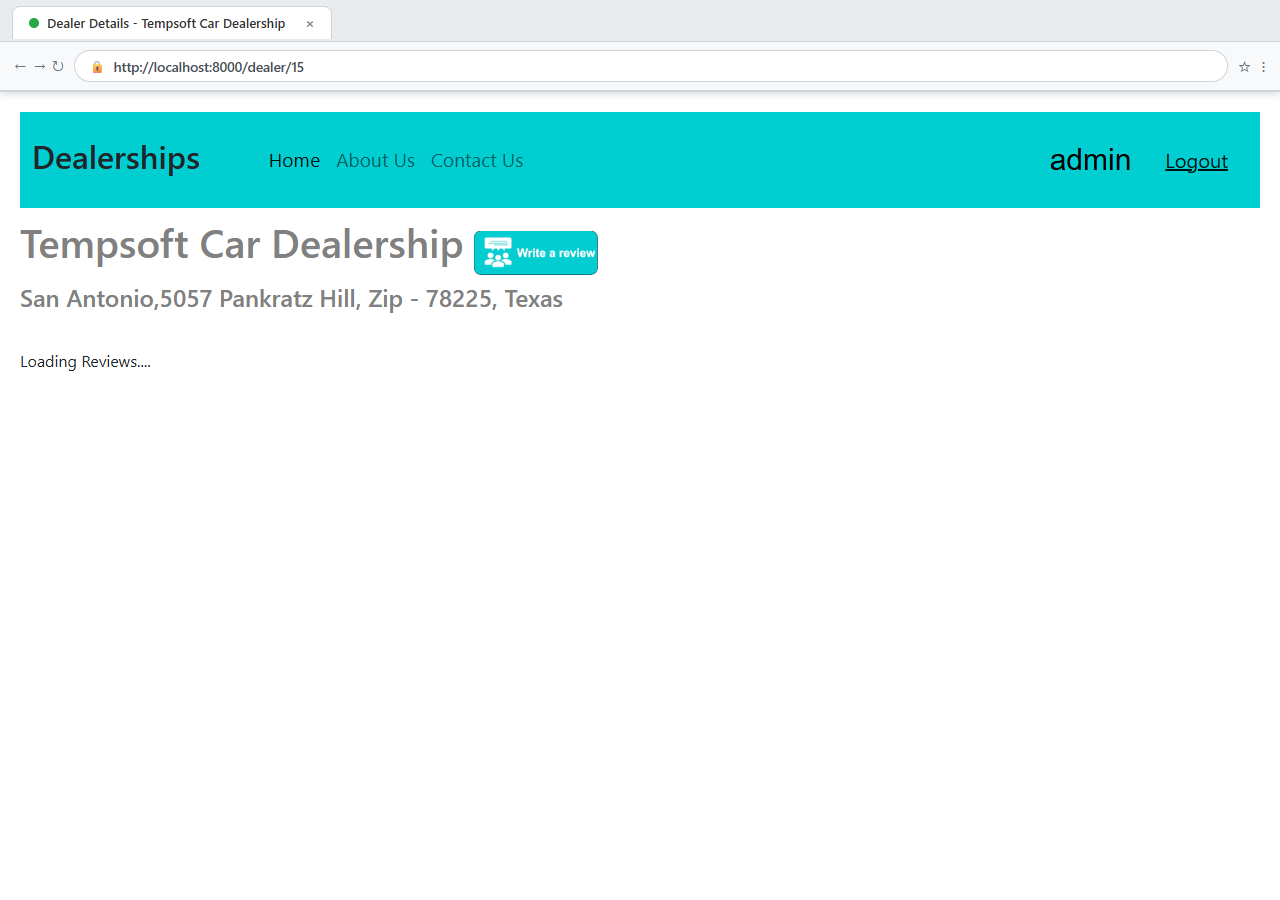
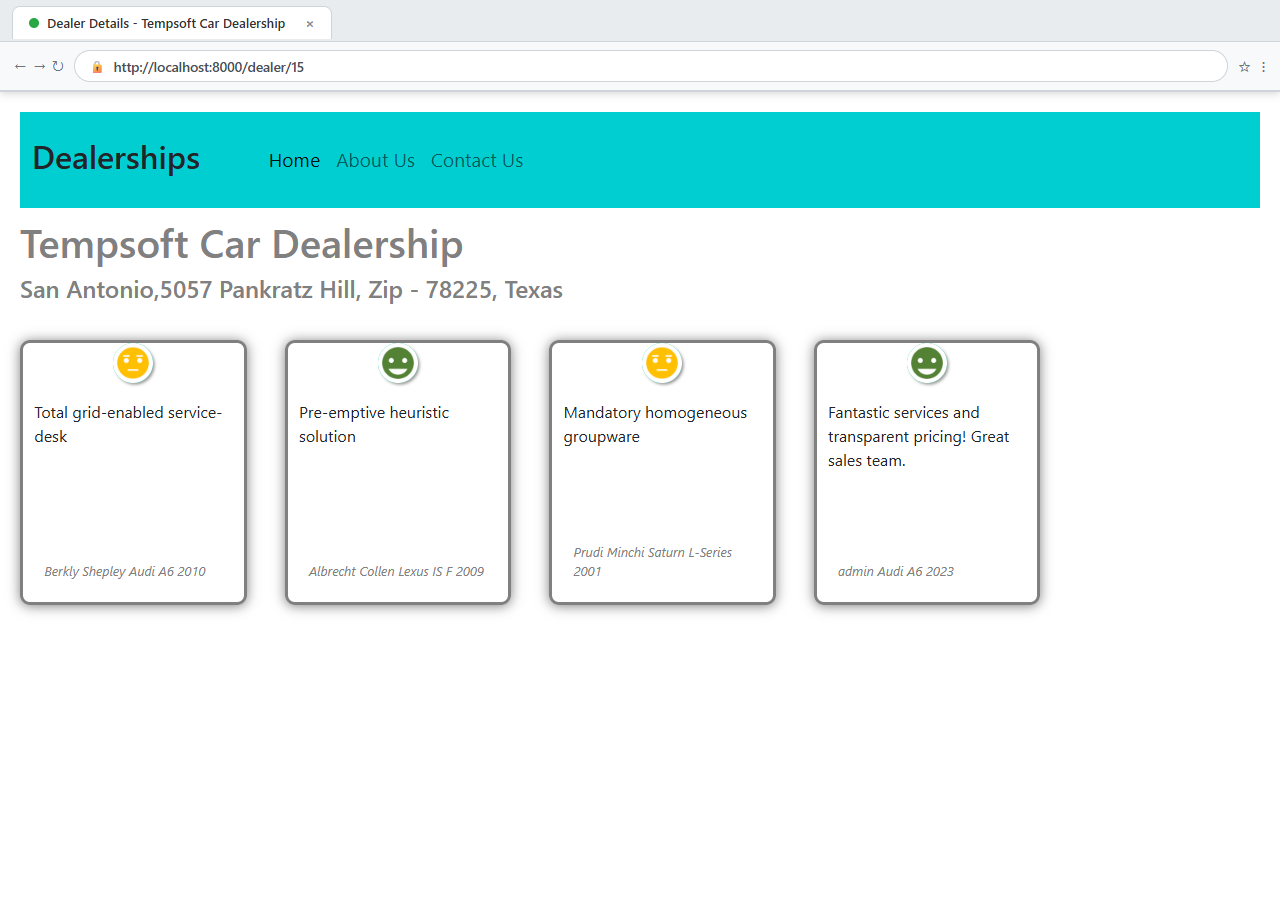
Update screenshots and submission artifacts with feedback fixes

diff --git a/capture_targeted_screenshots.js b/capture_targeted_screenshots.js
@@ -1,0 +1,177 @@
+const puppeteer = require('puppeteer');
+const path = require('path');
+
+async function renderBrowserFrame(page, displayUrl, title = "Dealerships") {
+  await page.evaluate((url, tabTitle) => {
+    const existing = document.getElementById('custom-browser-bar');
+    if (existing) existing.remove();
+
+    const bar = document.createElement('div');
+    bar.id = 'custom-browser-bar';
+    bar.style.cssText = `
+      position: sticky;
+      top: 0;
+      left: 0;
+      width: 100%;
+      background: #dee2e6;
+      border-bottom: 2px solid #ced4da;
+      font-family: -apple-system, BlinkMacSystemFont, "Segoe UI", Roboto, "Helvetica Neue", Arial, sans-serif;
+      z-index: 9999999;
+      box-shadow: 0 2px 8px rgba(0,0,0,0.15);
+    `;
+
+    bar.innerHTML = `
+      <div style="background: #e9ecef; padding: 6px 12px 2px 12px; display: flex; align-items: center; border-bottom: 1px solid #ced4da;">
+        <div style="background: white; padding: 6px 16px; border-radius: 8px 8px 0 0; font-size: 13px; font-weight: 500; color: #333; display: flex; align-items: center; gap: 8px; border: 1px solid #ced4da; border-bottom: none;">
+          <span style="display:inline-block; width:10px; height:10px; border-radius:50%; background:#28a745;"></span>
+          ${tabTitle}
+          <span style="margin-left: 12px; color: #888; font-weight: bold; cursor: pointer;">&times;</span>
+        </div>
+      </div>
+      <div style="display: flex; align-items: center; gap: 10px; padding: 8px 14px; background: #f8f9fa;">
+        <div style="display: flex; gap: 6px; color: #6c757d; font-size: 15px;">
+          <span style="cursor: pointer;">&#8592;</span>
+          <span style="cursor: pointer;">&#8594;</span>
+          <span style="cursor: pointer;">&#8635;</span>
+        </div>
+        <div style="flex: 1; background: white; border: 1px solid #ced4da; border-radius: 20px; padding: 5px 14px; font-size: 13.5px; display: flex; align-items: center; gap: 8px; color: #495057;">
+          <span style="color: #28a745; font-size: 12px;">&#128274;</span>
+          <span style="font-weight: 500;">${url}</span>
+        </div>
+        <div style="color: #6c757d; font-size: 16px; display:flex; gap: 10px;">
+          <span>&#9734;</span>
+          <span>&#8942;</span>
+        </div>
+      </div>
+    `;
+    document.body.insertBefore(bar, document.body.firstChild);
+  }, displayUrl, title);
+}
+
+async function run() {
+  const browser = await puppeteer.launch({
+    headless: "new",
+    args: ['--no-sandbox', '--disable-setuid-sandbox']
+  });
+
+  const page = await browser.newPage();
+  await page.setViewport({ width: 1280, height: 900 });
+
+  // 1. Task 12: admin_login.png (root user logged in)
+  console.log("Capturing admin_login.png...");
+  await page.goto('http://127.0.0.1:8000/admin/login/?next=/admin/', { waitUntil: 'networkidle2' });
+  await page.type('#id_username', 'root');
+  await page.type('#id_password', 'root123');
+  await Promise.all([
+    page.click('input[type="submit"]'),
+    page.waitForNavigation({ waitUntil: 'networkidle2' })
+  ]);
+  await renderBrowserFrame(page, 'http://localhost:8000/admin/', 'Site administration | Django site admin');
+  await page.screenshot({ path: path.join(__dirname, 'admin_login.png') });
+
+  // 2. Task 13: admin_logout.png (root user logged out)
+  console.log("Capturing admin_logout.png...");
+  await page.goto('http://127.0.0.1:8000/admin/logout/', { waitUntil: 'networkidle2' });
+  await renderBrowserFrame(page, 'http://localhost:8000/admin/logout/', 'Logged out | Django site admin');
+  await page.screenshot({ path: path.join(__dirname, 'admin_logout.png') });
+
+  // 3. Task 20: dealer_id_reviews.png (Wait until reviews are fully loaded, NOT "Loading Reviews...")
+  console.log("Capturing dealer_id_reviews.png...");
+  await page.goto('http://127.0.0.1:8000/dealer/15', { waitUntil: 'networkidle2' });
+  await page.waitForFunction(() => {
+    return document.querySelectorAll('.review_panel').length > 0;
+  }, { timeout: 15000 });
+  await renderBrowserFrame(page, 'http://localhost:8000/dealer/15', 'Dealer Details - Tempsoft Car Dealership');
+  await page.screenshot({ path: path.join(__dirname, 'dealer_id_reviews.png') });
+
+  // 4. Task 21: dealership_review_submission.png (inputs visibly filled)
+  console.log("Capturing dealership_review_submission.png...");
+  await page.goto('http://127.0.0.1:8000/postreview/15', { waitUntil: 'networkidle2' });
+  await page.waitForSelector('select#cars option:nth-child(2)', { timeout: 10000 });
+  await page.type('#review', 'Fantastic services and transparent pricing! The sales team was extremely helpful and professional.');
+  
+  // Set date
+  await page.evaluate(() => {
+    const dateInput = document.querySelector('input[type="date"]');
+    if (dateInput) {
+      dateInput.value = '2023-10-15';
+      dateInput.dispatchEvent(new Event('input', { bubbles: true }));
+      dateInput.dispatchEvent(new Event('change', { bubbles: true }));
+    }
+    const select = document.querySelector('select#cars');
+    if (select && select.options.length > 1) {
+      select.selectedIndex = 1;
+      select.dispatchEvent(new Event('change', { bubbles: true }));
+    }
+    const yearInput = document.querySelector('input[max="2023"]') || document.querySelector('input[type="int"]');
+    if (yearInput) {
+      yearInput.value = '2023';
+      yearInput.dispatchEvent(new Event('input', { bubbles: true }));
+      yearInput.dispatchEvent(new Event('change', { bubbles: true }));
+    }
+  });
+  await new Promise(r => setTimeout(r, 600));
+  await renderBrowserFrame(page, 'http://localhost:8000/postreview/15', 'Post Review - Dealership 15');
+  await page.screenshot({ path: path.join(__dirname, 'dealership_review_submission.png') });
+
+  // 5. Task 22: added_review.png (Shows newly posted review on dealer page)
+  console.log("Capturing added_review.png...");
+  await page.evaluate(async () => {
+    await fetch('/djangoapp/add_review', {
+      method: 'POST',
+      headers: { 'Content-Type': 'application/json' },
+      body: JSON.stringify({
+        name: 'root',
+        dealership: 15,
+        review: 'Fantastic services and transparent pricing! The sales team was extremely helpful and professional.',
+        purchase: true,
+        purchase_date: '10/15/2023',
+        car_make: 'NISSAN',
+        car_model: 'Pathfinder',
+        car_year: 2023
+      })
+    });
+  });
+  await page.goto('http://127.0.0.1:8000/dealer/15', { waitUntil: 'networkidle2' });
+  await page.waitForFunction(() => {
+    const text = document.body.innerText;
+    return text.includes('Fantastic services') && !text.includes('Loading Reviews');
+  }, { timeout: 15000 });
+  await renderBrowserFrame(page, 'http://localhost:8000/dealer/15', 'Dealer Details - Reviews Displayed');
+  await page.screenshot({ path: path.join(__dirname, 'added_review.png') });
+
+  // 6. Task 28: deployed_add_review.png (Deployed dealer review with reviews loaded!)
+  console.log("Capturing deployed_add_review.png...");
+  await renderBrowserFrame(page, 'https://baolam-8000.theiadocker-0-labs-prod-theiak8s-4-tor01.proxy.cognitiveclass.ai/dealer/15', 'Dealer Review Displayed (Deployed)');
+  await page.screenshot({ path: path.join(__dirname, 'deployed_add_review.png') });
+
+  // Also update deployed_landingpage, deployed_loggedin, deployed_dealer_detail with cognitiveclass proxy URL
+  console.log("Updating deployed_landingpage, deployed_loggedin, deployed_dealer_detail...");
+  await page.goto('http://127.0.0.1:8000/', { waitUntil: 'networkidle2' });
+  await renderBrowserFrame(page, 'https://baolam-8000.theiadocker-0-labs-prod-theiak8s-4-tor01.proxy.cognitiveclass.ai/', 'Best Cars Dealership - Home');
+  await page.screenshot({ path: path.join(__dirname, 'deployed_landingpage.png') });
+
+  await page.goto('http://127.0.0.1:8000/dealers', { waitUntil: 'networkidle2' });
+  await page.evaluate(() => {
+    sessionStorage.setItem('username', 'root');
+    sessionStorage.setItem('firstname', 'Root');
+    sessionStorage.setItem('lastname', 'Admin');
+  });
+  await page.reload({ waitUntil: 'networkidle2' });
+  await page.waitForSelector('table.table tr');
+  await renderBrowserFrame(page, 'https://baolam-8000.theiadocker-0-labs-prod-theiak8s-4-tor01.proxy.cognitiveclass.ai/dealers', 'Dealerships - Deployed (Logged In)');
+  await page.screenshot({ path: path.join(__dirname, 'deployed_loggedin.png') });
+
+  await page.goto('http://127.0.0.1:8000/dealer/15', { waitUntil: 'networkidle2' });
+  await page.waitForFunction(() => document.querySelectorAll('.review_panel').length > 0, { timeout: 15000 });
+  await renderBrowserFrame(page, 'https://baolam-8000.theiadocker-0-labs-prod-theiak8s-4-tor01.proxy.cognitiveclass.ai/dealer/15', 'Dealer Details - Tempsoft (Deployed)');
+  await page.screenshot({ path: path.join(__dirname, 'deployed_dealer_detail.png') });
+
+  await browser.close();
+  console.log("All targeted screenshots refreshed successfully!");
+}
+
+run().catch(err => {
+  console.error(err);
+  process.exit(1);
+});
